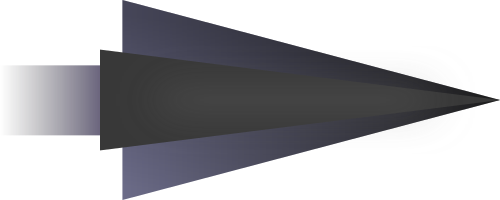
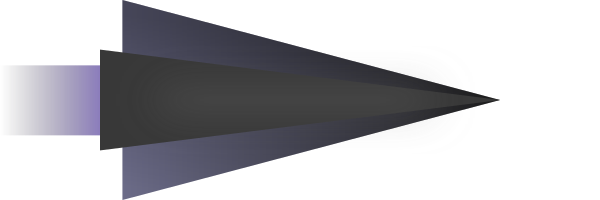
thrust image

Changed region(s): [[0.12, 0.0, 1.0, 1.0]]

diff --git a/js-bundle/vanilla-online.js b/js-bundle/vanilla-online.js
@@ -535,7 +535,6 @@ Game = function() {
 	this.processingCue = false;
 
 	this.stage = null
-	this.chatting = false;
 }
 
 /**** {{{ processCue ****/
@@ -686,7 +685,7 @@ Game.prototype.send = function(msg) {
 		//We're done here
 		return false;
 	}
-	if (msg.split(" ")[0] !== "SNAP")
+	// if (msg.split(" ")[0] !== "SNAP")
 		console.log(">>>" + msg)
 	this.socket.send(msg)
 	return true;
@@ -698,10 +697,10 @@ Game.prototype.onDisconnected = function() {
 	this.disconnected = true;
 }
 Game.prototype.onMessage = function(message) {
-	if (message.data.split(" ")[0] === "SNAP") {
-	} else {
+	// if (message.data.split(" ")[0] === "SNAP") {
+	// else {
 		console.log("<<<" + message.data)
-	}
+	// }
 	this.messageCue.push(message.data)
 	this.processCue()
 }
@@ -1313,7 +1312,8 @@ Vanilla.prototype.renderPlayers = function(id, players) {
 
 Vanilla.prototype.initRender = function(stage) {
 	this.graphics = {}
-	this.graphics.playerTexture = new PIXI.Texture.fromImage(urls.playerSprite)
+	this.textures.player = new PIXI.Texture.fromImage(urls.playerSprite)
+	this.textures.playerThrust = new PIXI.Texture.fromImage(urls.playerThrustSprite)
 
 	stage.addChild(new PIXI.Container)
 	stage.addChild(new PIXI.Container)
@@ -1505,7 +1505,10 @@ module.exports = maps;
 
 },{}],12:[function(require,module,exports){
 module.exports = {
-	playerSprite: "http://solemnsky.github.io/multimedia/player.png"
+	playerSprite: 
+		"http://solemnsky.github.io/multimedia/player.png"
+	, playerThrustSprite: 
+		"http://solemnsky.github.io/multimedia/player-thrust.png"
 }
 
 },{}],13:[function(require,module,exports){

diff --git a/js-bundle/demo-offline.js b/js-bundle/demo-offline.js
@@ -1221,7 +1221,8 @@ Vanilla.prototype.renderPlayers = function(id, players) {
 
 Vanilla.prototype.initRender = function(stage) {
 	this.graphics = {}
-	this.graphics.playerTexture = new PIXI.Texture.fromImage(urls.playerSprite)
+	this.textures.player = new PIXI.Texture.fromImage(urls.playerSprite)
+	this.textures.playerThrust = new PIXI.Texture.fromImage(urls.playerThrustSprite)
 
 	stage.addChild(new PIXI.Container)
 	stage.addChild(new PIXI.Container)
@@ -1413,7 +1414,10 @@ module.exports = maps;
 
 },{}],14:[function(require,module,exports){
 module.exports = {
-	playerSprite: "http://solemnsky.github.io/multimedia/player.png"
+	playerSprite: 
+		"http://solemnsky.github.io/multimedia/player.png"
+	, playerThrustSprite: 
+		"http://solemnsky.github.io/multimedia/player-thrust.png"
 }
 
 },{}],15:[function(require,module,exports){

diff --git a/js-bundle/vanilla-offline.js b/js-bundle/vanilla-offline.js
@@ -1117,7 +1117,8 @@ Vanilla.prototype.renderPlayers = function(id, players) {
 
 Vanilla.prototype.initRender = function(stage) {
 	this.graphics = {}
-	this.graphics.playerTexture = new PIXI.Texture.fromImage(urls.playerSprite)
+	this.textures.player = new PIXI.Texture.fromImage(urls.playerSprite)
+	this.textures.playerThrust = new PIXI.Texture.fromImage(urls.playerThrustSprite)
 
 	stage.addChild(new PIXI.Container)
 	stage.addChild(new PIXI.Container)
@@ -1309,7 +1310,10 @@ module.exports = maps;
 
 },{}],12:[function(require,module,exports){
 module.exports = {
-	playerSprite: "http://solemnsky.github.io/multimedia/player.png"
+	playerSprite: 
+		"http://solemnsky.github.io/multimedia/player.png"
+	, playerThrustSprite: 
+		"http://solemnsky.github.io/multimedia/player-thrust.png"
 }
 
 },{}],13:[function(require,module,exports){

diff --git a/js/control/client-arena.js b/js/control/client-arena.js
@@ -56,7 +56,6 @@ Game = function() {
 	this.processingCue = false;
 
 	this.stage = null
-	this.chatting = false;
 }
 
 /**** {{{ processCue ****/
@@ -207,7 +206,7 @@ Game.prototype.send = function(msg) {
 		//We're done here
 		return false;
 	}
-	if (msg.split(" ")[0] !== "SNAP")
+	// if (msg.split(" ")[0] !== "SNAP")
 		console.log(">>>" + msg)
 	this.socket.send(msg)
 	return true;
@@ -219,10 +218,10 @@ Game.prototype.onDisconnected = function() {
 	this.disconnected = true;
 }
 Game.prototype.onMessage = function(message) {
-	if (message.data.split(" ")[0] === "SNAP") {
-	} else {
+	// if (message.data.split(" ")[0] === "SNAP") {
+	// else {
 		console.log("<<<" + message.data)
-	}
+	// }
 	this.messageCue.push(message.data)
 	this.processCue()
 }

diff --git a/js/modes/vanilla/render.js b/js/modes/vanilla/render.js
@@ -68,7 +68,8 @@ Vanilla.prototype.renderPlayers = function(id, players) {
 
 Vanilla.prototype.initRender = function(stage) {
 	this.graphics = {}
-	this.graphics.playerTexture = new PIXI.Texture.fromImage(urls.playerSprite)
+	this.textures.player = new PIXI.Texture.fromImage(urls.playerSprite)
+	this.textures.playerThrust = new PIXI.Texture.fromImage(urls.playerThrustSprite)
 
 	stage.addChild(new PIXI.Container)
 	stage.addChild(new PIXI.Container)

diff --git a/js/resources/urls.js b/js/resources/urls.js
@@ -1,3 +1,6 @@
 module.exports = {
-	playerSprite: "http://solemnsky.github.io/multimedia/player.png"
+	playerSprite: 
+		"http://solemnsky.github.io/multimedia/player.png"
+	, playerThrustSprite: 
+		"http://solemnsky.github.io/multimedia/player-thrust.png"
 }
